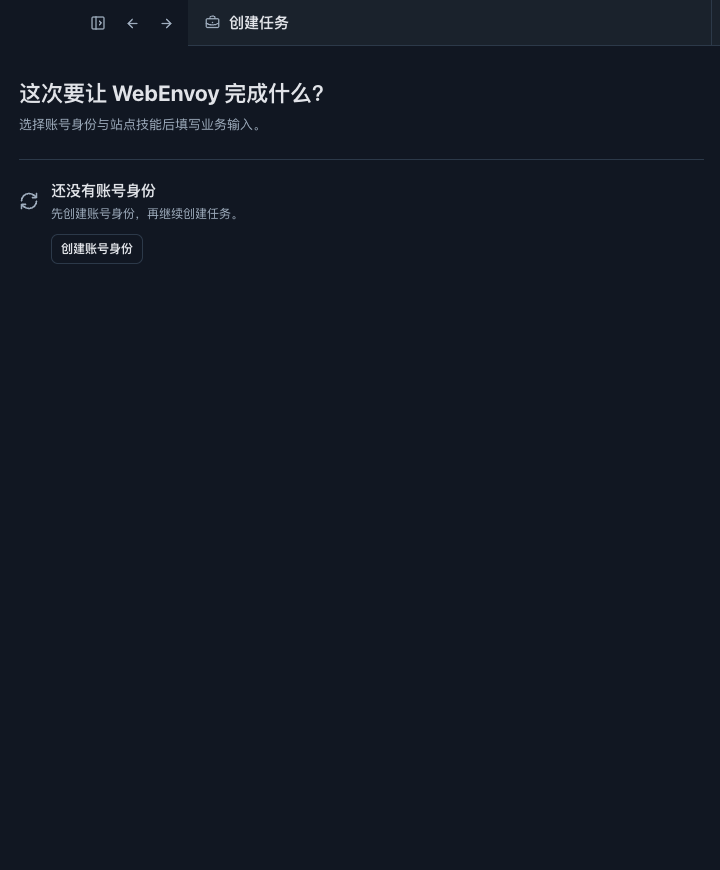
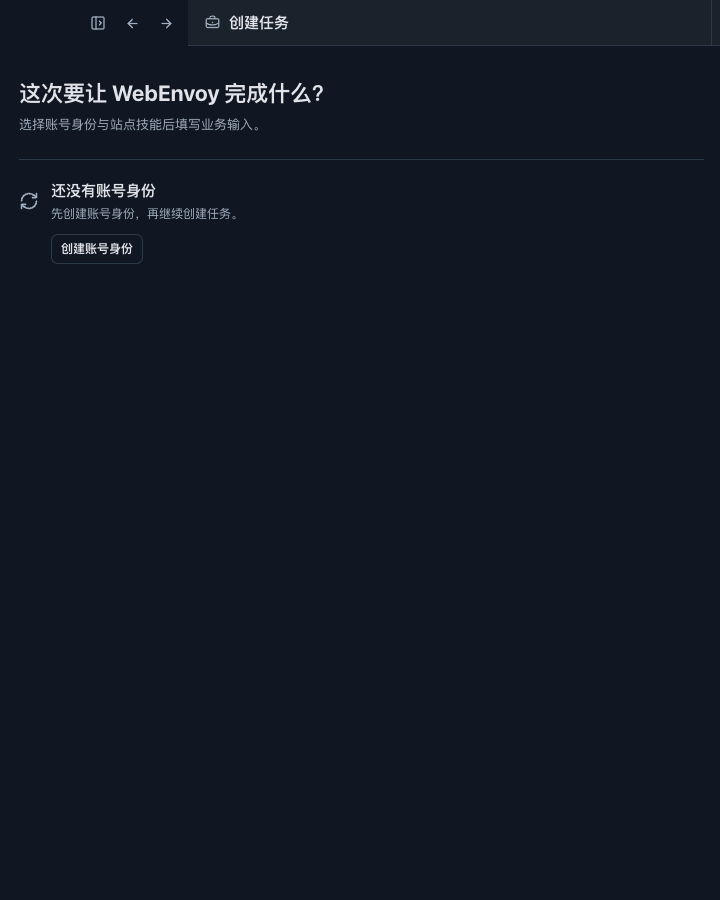
fix(app): 修复浏览器环境恢复入口与运行时锁定

diff --git a/src/renderer/coreTaskSubmitClient.ts b/src/renderer/coreTaskSubmitClient.ts
@@ -47,12 +47,14 @@ type CoreTaskPayload = {
       timeout_ms: number;
     };
     resource_requirement_refs: string[];
+    resource_requirement_profile_id: string;
     evidence_policy_ref: string;
   };
   harbor: {
     identity_environment_ref: string;
     url: string;
     reuse_existing: true;
+    timeout_ms: number;
   };
 };
 
@@ -93,6 +95,9 @@ export function coreTaskSubmitReadiness(
   }
   if (spec.resourceRequirementRefs.length === 0) {
     return { ok: false, reason: "当前任务缺少 Lode resource requirement refs；不构造 Core task payload。" };
+  }
+  if (!spec.resourceRequirementProfileId.trim()) {
+    return { ok: false, reason: "当前任务缺少 Lode resource requirement profile；不构造 Core task payload。" };
   }
 
   const site = siteForTask(task);
@@ -154,12 +159,14 @@ export function coreTaskSubmitReadiness(
         timeout_ms: 60_000,
       },
       resource_requirement_refs: spec.resourceRequirementRefs,
+      resource_requirement_profile_id: spec.resourceRequirementProfileId,
       evidence_policy_ref: spec.evidencePolicyRef,
     },
     harbor: {
       identity_environment_ref: identity.identityEnvironmentRef,
       url: targetRef,
       reuse_existing: true,
+      timeout_ms: 60_000,
     },
   };
 
@@ -395,7 +402,8 @@ function responseError(value: unknown, fallback: string) {
 export function coreTaskSubmitFailureSummary(value: unknown, fallback: string) {
   const recoveryCode = coreTaskRecoveryCode(value);
   if (["browser_environment_repair_required", "repair_browser_environment", "identity_storage_unavailable",
-    "browser_provider_unavailable", "identity_environment_unavailable", "connect_identity_environment", "install_or_select_provider"].includes(recoveryCode ?? "")) {
+    "browser_provider_unavailable", "identity_environment_unavailable", "connect_identity_environment", "install_or_select_provider",
+    "profile_locked", "launch_failed", "runtime_session_busy", "core_task_session_lock_mismatch", "provider_conflict", "fingerprint_conflict"].includes(recoveryCode ?? "")) {
     return "需要修复浏览器环境后重试。";
   }
   if (recoveryCode === "identity_auth_required" || recoveryCode === "open_manual_auth") {
@@ -422,6 +430,12 @@ function coreTaskRecoveryCode(value: unknown) {
     "identity_environment_unavailable",
     "connect_identity_environment",
     "install_or_select_provider",
+    "profile_locked",
+    "launch_failed",
+    "runtime_session_busy",
+    "core_task_session_lock_mismatch",
+    "provider_conflict",
+    "fingerprint_conflict",
     "identity_auth_required",
     "open_manual_auth",
   ];

diff --git a/src/renderer/coreTaskThreadSubmitClient.ts b/src/renderer/coreTaskThreadSubmitClient.ts
@@ -196,7 +196,12 @@ function prepareTaskTurn(options: SubmitOptions, requestedModes?: ExecutionPolic
         resource_requirement_profile_id: action.resourceRequirementProfileIds[0],
         evidence_policy_ref: "policy:no-raw-evidence",
       },
-      harbor: { identity_environment_ref: options.identity.identityEnvironmentRef, url: target.url, reuse_existing: true },
+      harbor: {
+        identity_environment_ref: options.identity.identityEnvironmentRef,
+        url: target.url,
+        reuse_existing: true,
+        timeout_ms: 60_000,
+      },
     },
   };
 }

diff --git a/src/renderer/coreReadTaskClient.ts b/src/renderer/coreReadTaskClient.ts
@@ -18,6 +18,7 @@ export type CoreReadTaskSpec = {
   packageVersion: string;
   capabilities: CoreReadCapability[];
   resourceRequirementRefs: string[];
+  resourceRequirementProfileId: string;
   evidencePolicyRef: string;
   boundary: string;
 };
@@ -174,6 +175,7 @@ export const coreReadTaskSpecs: CoreReadTaskSpec[] = [
       },
     ],
     resourceRequirementRefs: ["xiaohongshu.search-notes.resources"],
+    resourceRequirementProfileId: "search-notes-logged-in-ready-page",
     evidencePolicyRef: "evidence-policy:refs-only",
     boundary: "Core owner API 返回 run/result/evidence refs；App 不读取 raw evidence、DOM、截图正文、Cookie、token 或 profile storage。",
   },
@@ -195,6 +197,7 @@ export const coreReadTaskSpecs: CoreReadTaskSpec[] = [
       },
     ],
     resourceRequirementRefs: ["boss.job-search.resources"],
+    resourceRequirementProfileId: "job-search-logged-in-ready-page",
     evidencePolicyRef: "evidence-policy:refs-only",
     boundary: "Core owner API 只暴露 BOSS 只读 run/result/evidence refs；App 不打招呼、不投递、不保存聊天或简历材料。",
   },
@@ -211,6 +214,7 @@ export const coreReadTaskSpecs: CoreReadTaskSpec[] = [
       },
     ],
     resourceRequirementRefs: ["xiaohongshu.publish-note-precheck.resources"],
+    resourceRequirementProfileId: "xhs-creator-publish-page-precheck",
     evidencePolicyRef: "evidence-policy:refs-only",
     boundary: "Core owner API 返回小红书写前验证 run/result/evidence refs；App 只展示 expected_change、approval state 和 owner submitted 状态，不点击发布。",
   },
@@ -227,6 +231,7 @@ export const coreReadTaskSpecs: CoreReadTaskSpec[] = [
       },
     ],
     resourceRequirementRefs: ["boss.greet-precheck.resources"],
+    resourceRequirementProfileId: "boss-greet-target-precheck",
     evidencePolicyRef: "evidence-policy:refs-only",
     boundary: "Core owner API 返回 BOSS 打招呼写前验证 refs；App 只展示消息框预览、风险状态和 owner submitted 状态，不发送消息。",
   },